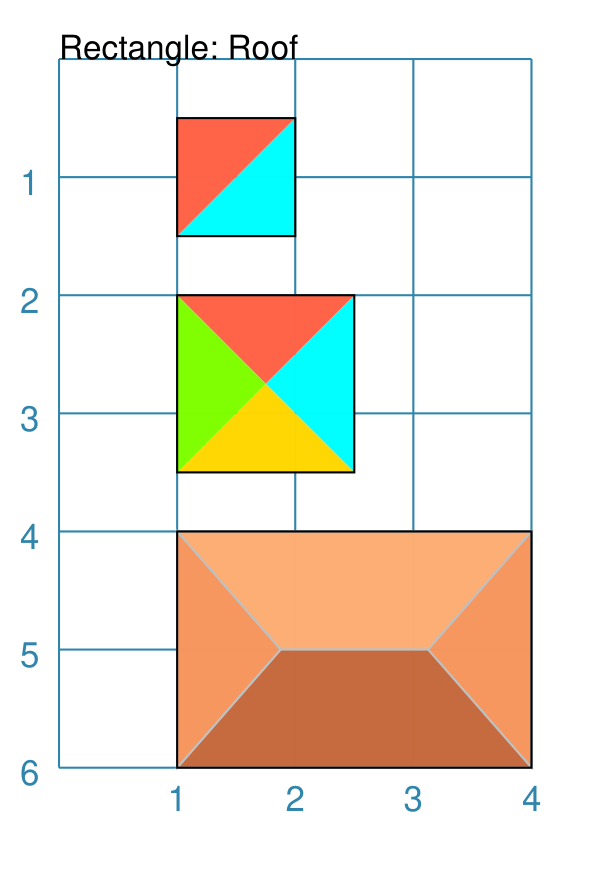
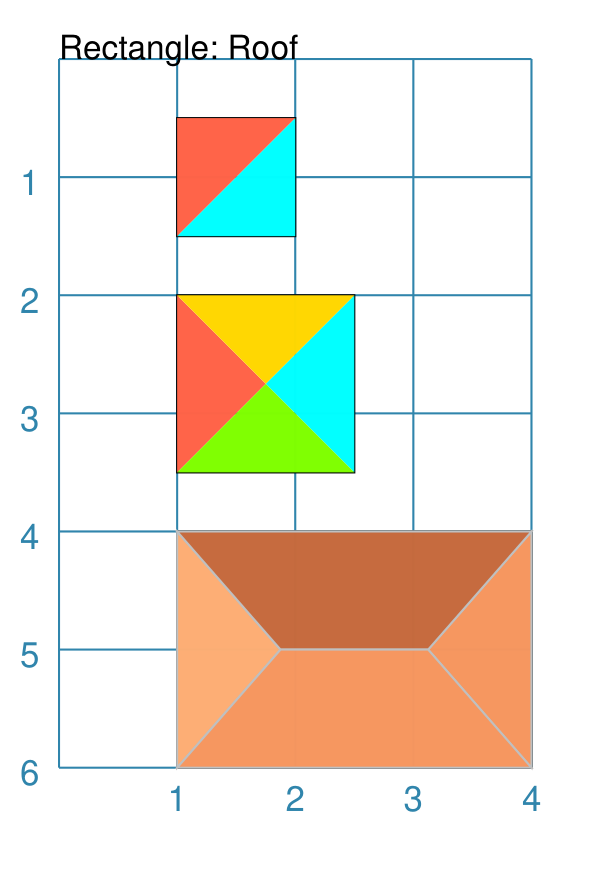
Roof property added

diff --git a/protograf/shapes.py b/protograf/shapes.py
@@ -2762,7 +2762,9 @@ class RectangleShape(BaseShape):
             self.x = self.cx - self.width / 2.0
             self.y = self.cy - self.height / 2.0
             # feedback(f"*** RectShp {self.cx=} {self.cy=} {self.x=} {self.y=}")
-        self.roof_line_u = self.unit(self.roof_line) if self.roof_line else None
+        self._u_roof_line = self.unit(self.roof_line) if self.roof_line else None
+        self._u_roof_line_mx = self.unit(self.roof_line_mx) if self.roof_line_mx else 0
+        self._u_roof_line_my = self.unit(self.roof_line_mx) if self.roof_line_my else 0
         self.kwargs = kwargs
 
     def calculate_area(self) -> float:
@@ -2952,9 +2954,15 @@ class RectangleShape(BaseShape):
             dy = (vertexes[1].y - vertexes[0].y) / 2.0
             midpt = Point(vertexes[0].x + dx, vertexes[0].y + dy)
             if self.roof_line:
-                _line = self.roof_line_u / 2.0
-                midleft = Point(midpt.x - _line, midpt.y)
-                midrite = Point(midpt.x + _line, midpt.y)
+                _line = self._u_roof_line / 2.0
+                midleft = Point(
+                    midpt.x - _line + self._u_roof_line_mx,
+                    midpt.y + self._u_roof_line_my,
+                )
+                midrite = Point(
+                    midpt.x + _line + self._u_roof_line_mx,
+                    midpt.y + self._u_roof_line_my,
+                )
                 vert_t = [vertexes[0], midleft, midrite, vertexes[3]]
                 vert_r = [vertexes[3], midrite, vertexes[2]]
                 vert_b = [vertexes[1], midleft, midrite, vertexes[2]]
@@ -2965,7 +2973,7 @@ class RectangleShape(BaseShape):
                 vert_b = [vertexes[1], midpt, vertexes[2]]
                 vert_l = [vertexes[0], midpt, vertexes[1]]
 
-            sections = [vert_t, vert_r, vert_b, vert_l]
+            sections = [vert_l, vert_r, vert_t, vert_b]  # order is important!
             for key, section in enumerate(sections):
                 cnv.draw_polyline(section)
                 self.set_canvas_props(
@@ -3413,9 +3421,7 @@ class RectangleShape(BaseShape):
             feedback(
                 f"The rounding radius cannot exceed 50% of the smallest side.", True
             )
-        # ---- draw roof first
-        if self.roof:
-            self.draw_roof(cnv, ID, self.vertexes, rotation)
+
         # ---- draw rectangle
         # feedback(f'*** RECT {self.col=} {self.row=} {x=} {y=} {radius=}')
         if is_notched or is_chevron or is_peaks:
@@ -3464,6 +3470,10 @@ class RectangleShape(BaseShape):
                         height=self._u.height,
                         mask="auto",
                     )
+
+        # ---- draw roof after base
+        if self.roof:
+            self.draw_roof(cnv, ID, self.vertexes, rotation)
 
         # ---- draw hatch
         if self.hatch_count:

diff --git a/protograf/base.py b/protograf/base.py
@@ -340,6 +340,8 @@ class BaseCanvas:
         )  # fraction of smallest side
         self.roof = self.defaults.get("roof", [])
         self.roof_line = self.defaults.get("roof_line", 0)
+        self.roof_line_mx = self.defaults.get("roof_line_mx", 0)
+        self.roof_line_my = self.defaults.get("roof_line_my", 0)
         self.roof_stroke = self.defaults.get("roof_stroke", None)
         self.roof_stroke_width = self.defaults.get("roof_stroke", None)
         self.roof_reverse = self.defaults.get("roof_reverse", False)
@@ -766,6 +768,8 @@ class BaseShape:
         self.rounded_radius = base.rounded_radius
         self.roof = kwargs.get("roof", base.roof)
         self.roof_line = kwargs.get("roof_line", base.roof_line)
+        self.roof_line_mx = kwargs.get("roof_line_mx", base.roof_line_mx)
+        self.roof_line_my = kwargs.get("roof_line_my", base.roof_line_my)
         self.roof_reverse = kwargs.get("roof_reverse", base.roof_reverse)
         self.roof_stroke = kwargs.get("roof_stroke", base.roof_stroke)
         self.roof_stroke_width = kwargs.get("roof_stroke_width", base.roof_stroke_width)

diff --git a/examples/core/customised_rectangle.py b/examples/core/customised_rectangle.py
@@ -196,6 +196,25 @@ Rectangle(
     fill=None)
 PageBreak()
 
+# ---- roof
+Blueprint(stroke_width=0.5)
+Text(common=txt, text="Rectangle: Roof - custom")
+Rectangle(
+    x=1, y=2,
+    height=2, width=4,
+    roof=['#555656', '#555656', '#767982', '#555656'],
+    roof_line=4,
+    roof_stroke="#767982",
+    rotation=90)
+Rectangle(
+    x=0, y=3,
+    height=2, width=2,
+    roof=['#767982', '#636C73', '#555656', '#636C73'],
+    roof_line=2,
+    roof_line_mx=0.5,
+    roof_stroke="#767982")
+PageBreak()
+
 # ---- END
 Text(common=txt, text="Rectangle END...")
 
@@ -206,5 +225,5 @@ Save(
      names=[
         None,
         "centre", "notch", "dot_cross", "hatch", "rounding", "chevron",
-        "peak", "rotation", "notch_style", "borders", "roof",
+        "peak", "rotation", "notch_style", "borders", "roof", "roof_custom",
         None])

diff --git a/docs/source/customised_shapes.rst b/docs/source/customised_shapes.rst
@@ -427,6 +427,7 @@ that it can be customised.
 - `Peak <rectPeak_>`_
 - `Rotation <rectRotation_>`_
 - `Rounding <rectRounding_>`_
+- `Roof <rectRoof_>`_
 
 .. _rectCentred:
 
@@ -854,6 +855,102 @@ into the arc of a quarter-circle.
         No hatching permissible with this size rounding in the rectangle
 
 ===== ======
+
+.. _rectRoof:
+
+Roof
+----
+`^ <rectangleIndex_>`_
+
+The roof-related command enables the rectangle to be filled with
+colored triangular or quadilateral shapes.  Depending on the settings
+in use, this can be thought of to resemble a certain type of house roof,
+as viewed from above.
+
+.. |rf1| image:: images/custom/rectangle/roof.png
+   :width: 330
+
+===== ======
+|rf1| This example shows Rectangles constructed using the commands:
+
+      .. code:: python
+
+        Rectangle(
+            x=1, y=0.5,
+            roof=['tomato', 'aqua'],
+            fill=None)
+        Rectangle(
+            x=1, y=2,
+            height=1.5, width=1.5,
+            roof=['tomato', 'aqua', 'gold', 'chartreuse'],
+            fill=None)
+        Rectangle(
+            x=1, y=4,
+            height=2, width=3,
+            roof=['#FDAE74', '#F6965F', '#C66A3D', '#F6965F'],
+            roof_line=1.25,
+            roof_stroke="silver",
+            fill=None)
+
+      The top example shows the minimum required; the *roof* property is a
+      list of **two** colors (``[ ]`` with comma-separated color strings).
+      This causes **two** triangles to be drawn |dash| one in the top-left,
+      and one in the bottom-right of the rectangle.
+
+      The middle example shows what happens when the *roof* property is given
+      a list of **four** colors (``[ ]`` with comma-separated color strings).
+      This causes **four** triangles to be drawn |dash| the rectangle is thus
+      subdivided into four triangular spaces.  Colors are allocated from the
+      top-most triangle, going clock-wise.
+
+      The lower example shows what happens when the *roof* property is given
+      a list of **four** colors, plus a *roof_line* and a *roof_stroke*.
+      The *roof_line* is drawn centered in the rectangle, and then the two
+      triangles are created at either end, with quadilaterals forming the top
+      and bottom shapes. All lines are drawn with the  *roof_stroke* color.
+
+===== ======
+
+.. |rf2| image:: images/custom/rectangle/roof_custom.png
+   :width: 330
+
+===== ======
+|rf2| This example shows Rectangles constructed using the commands:
+
+      .. code:: python
+
+        Rectangle(
+            x=1, y=2,
+            height=2, width=4,
+            roof=['#555656', '#555656', '#767982', '#555656'],
+            roof_line=4,
+            roof_stroke="#767982",
+            rotation=90)
+        Rectangle(
+            x=0, y=3,
+            height=2, width=2,
+            roof=['#767982', '#636C73', '#555656', '#636C73'],
+            roof_line=2,
+            roof_stroke="#767982",
+            roof_line_mx=0.5)
+
+      Both examples shows what happens when the *roof* property is given
+      a list of **four** colors, plus a *roof_line* and a *roof_stroke*.
+      In both cases, the *roof_line* length is equal to the length of the
+      rectangle itself (``4`` and ``2`` cm respectively).
+
+      The right-hand rectangle shows how it appears to be subdivided into
+      two areas; the end triangles have a height of zero and effectively
+      become "invisible".  Because the rectangle has been rotated 90 |deg|
+      the dividing line appears vertical.
+
+      The left-hand rectangle has an additional property *roof_line_mx*
+      which causes the middle-line to shift that distance to the right (or
+      to the left, if it was a negative values).  This causes the right-hand
+      triangle to "project" to the right of the rectangle.
+
+===== ======
+
 
 .. _rectBorders:
 
